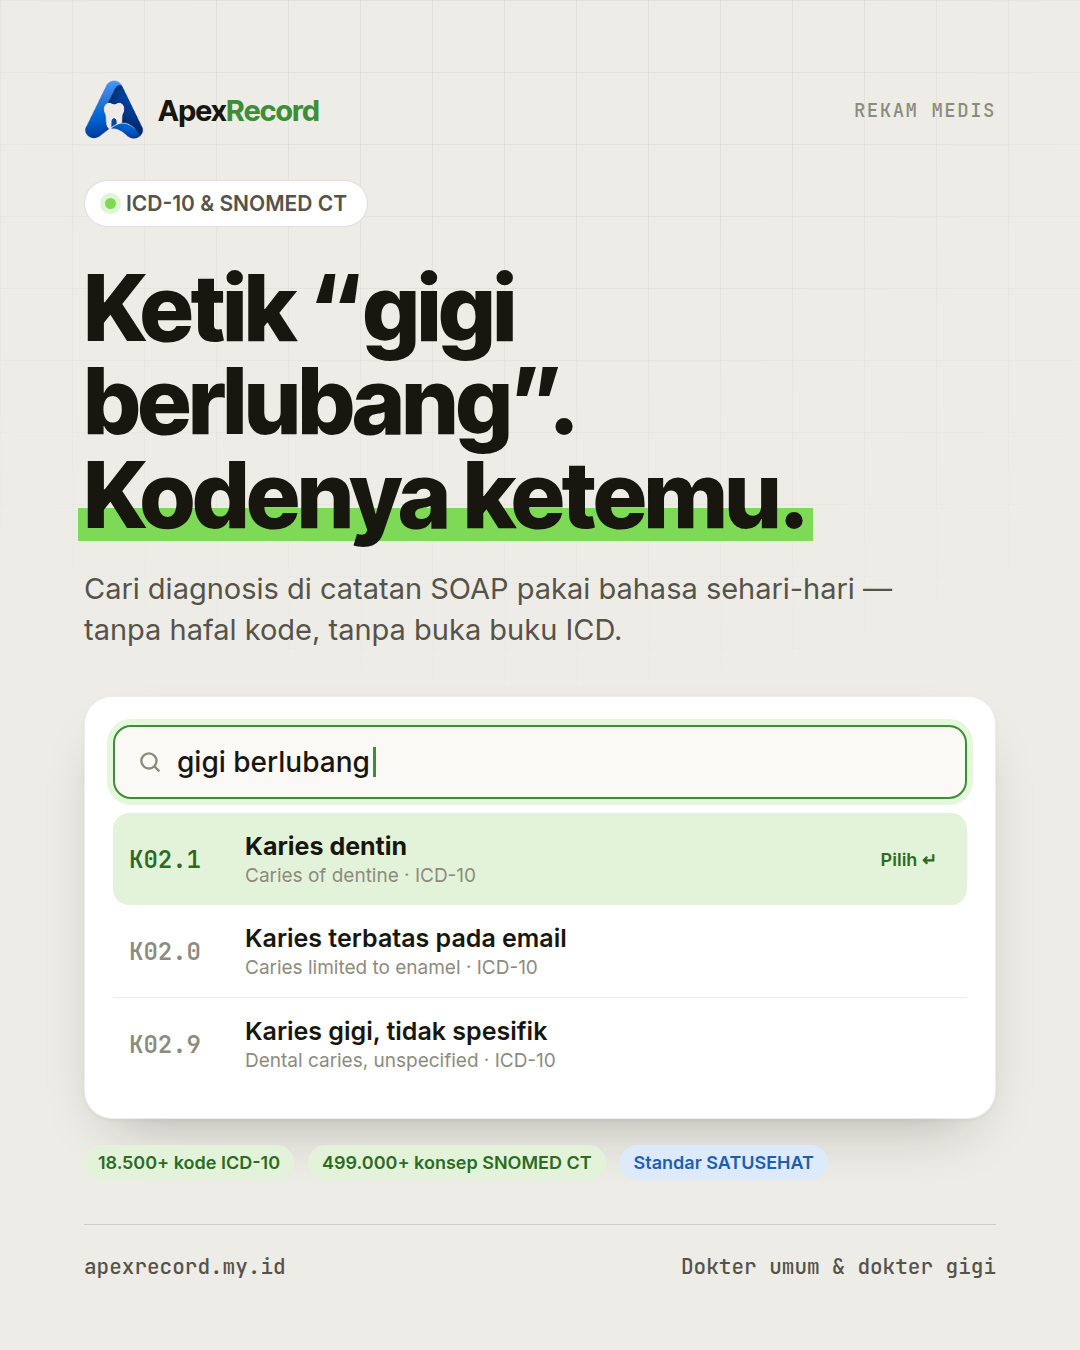
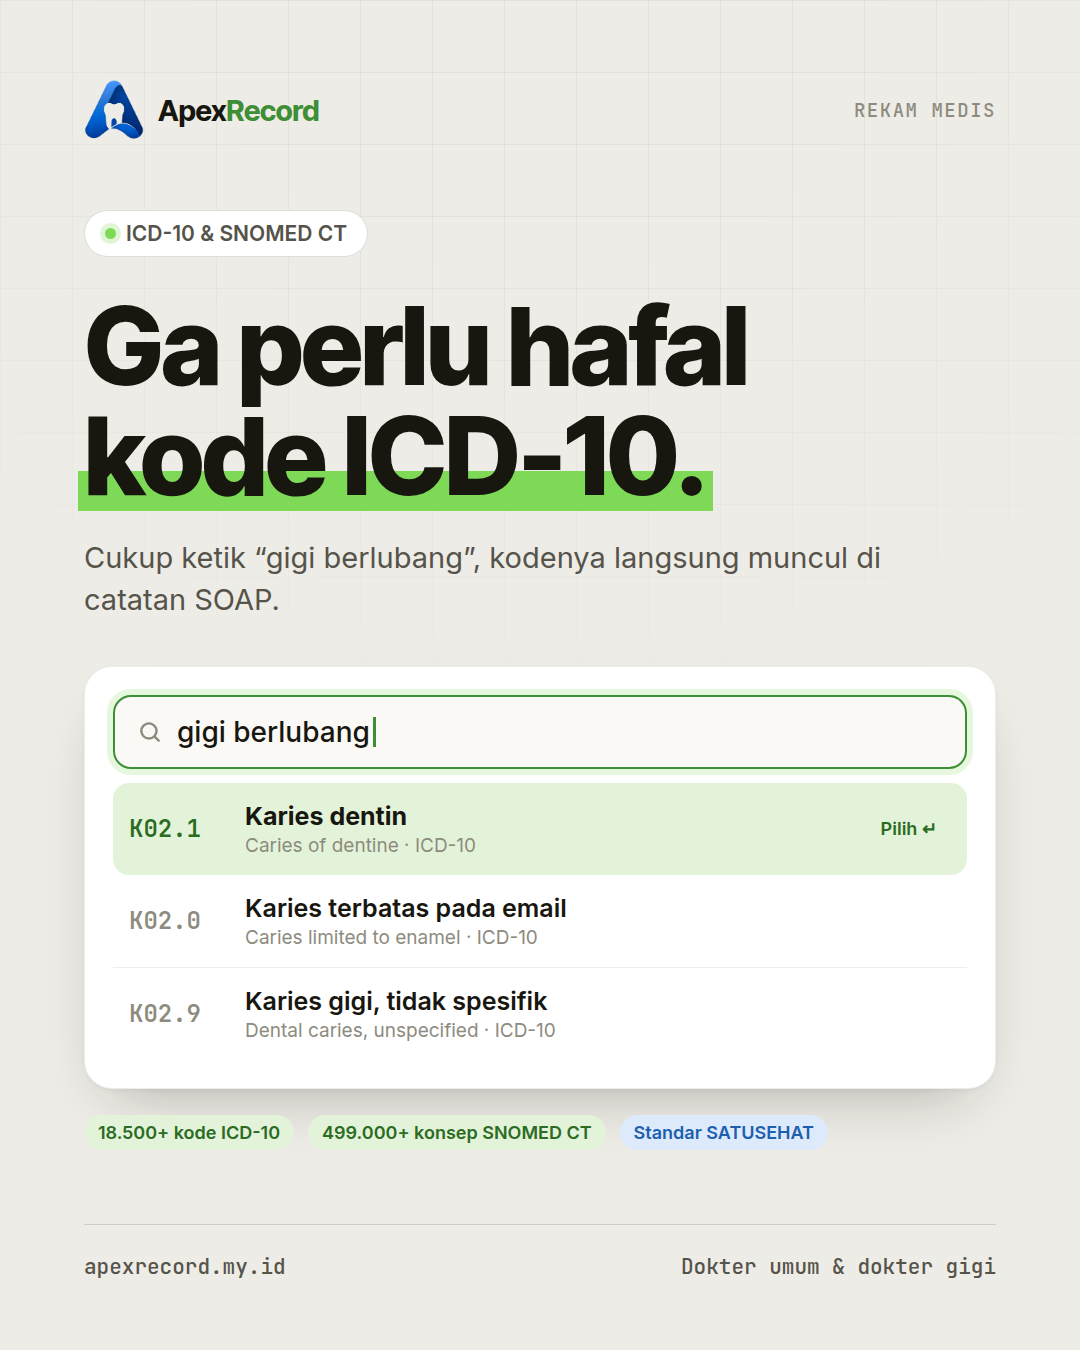
Seri 2 post 01: simpler headline 'Ga perlu hafal kode ICD-10.'
Claude-Session: https://claude.ai/code/session_01HYy2mnpeaAxxt6janEXAxv

Changed region(s): [[0.0611, 0.1244, 0.9167, 0.8711]]

diff --git a/marketing/instagram-seri2/posts.html b/marketing/instagram-seri2/posts.html
@@ -69,8 +69,8 @@
 
   <div class="z" style="margin-top:70px">
     <span class="tag"><span class="dot"></span>ICD-10 &amp; SNOMED CT</span>
-    <h1 style="font-size:92px;margin-top:34px">Ketik “gigi berlubang”.<br><span class="hl">Kodenya ketemu.</span></h1>
-    <p class="lead" style="margin-top:26px;max-width:860px">Cari diagnosis di catatan SOAP pakai bahasa sehari-hari — tanpa hafal kode, tanpa buka buku ICD.</p>
+    <h1 style="font-size:108px;margin-top:34px">Ga perlu hafal<br><span class="hl">kode ICD-10.</span></h1>
+    <p class="lead" style="margin-top:26px;max-width:880px">Cukup ketik “gigi berlubang”, kodenya langsung muncul di catatan SOAP.</p>
   </div>
 
   <div class="z card" style="margin-top:46px;padding:28px">
